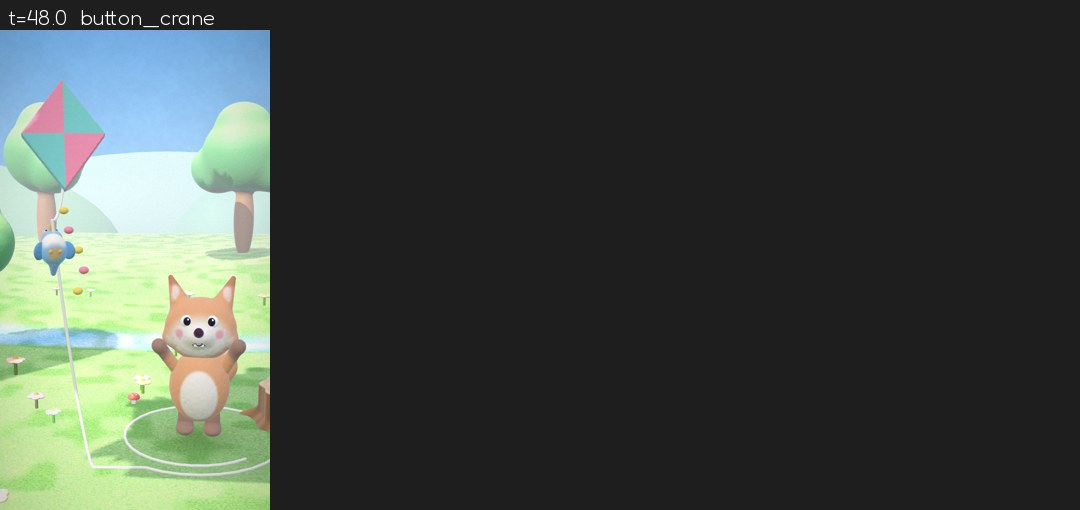
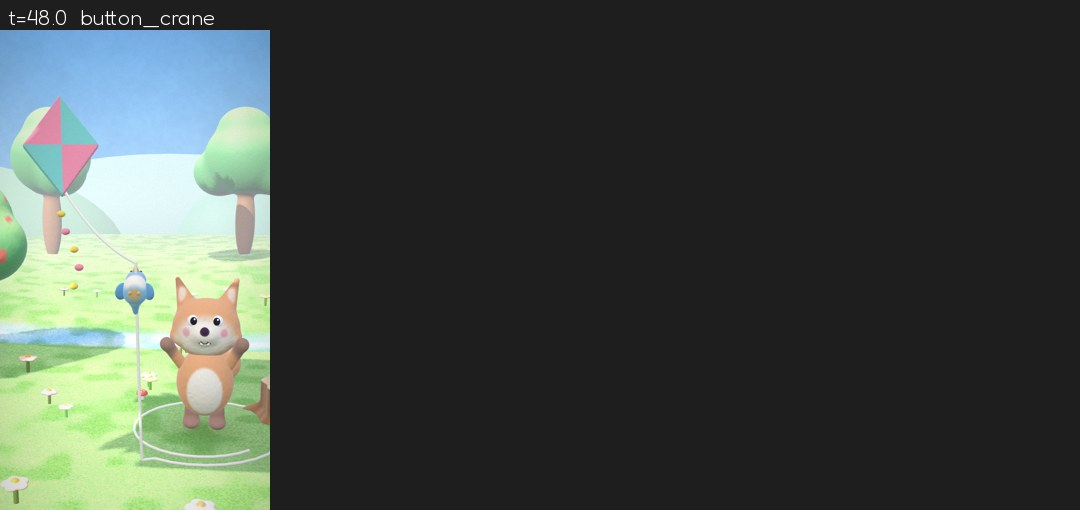
Fable 1: animatic passes review (round 6), final stills and review log
Geometry QA 0 issues, independent reviewer PASS on both aspects. Pip
moved clear of the kite tail at the end. Final 8 stills per aspect,
contact sheets, review sheets and the full round-by-round log.

Claude-Session: https://claude.ai/code/session_012DiEG3BG1auD4t8c7zPpV2

Changed region(s): [[0.0, 0.1471, 0.275, 1.0], [0.0611, 0.9706, 0.0917, 1.0]]

diff --git a/batches/01-fables-friendship/fable-01-tiny-pip-big-help/code/render.py b/batches/01-fables-friendship/fable-01-tiny-pip-big-help/code/render.py
@@ -243,7 +243,7 @@ def kite_state(t, st):
             return p, roty(0.6) @ rotx(-math.pi / 2 * e - 0.3 * (1 - e))
         return rest, Mrest
     u = ease(clampu(t, SH["button_crane"][0] + GRAB + 0.1, SH["button_crane"][1]))     # Pip pulls it up into the sky again, on his left
-    p = lerp(rest, np.array([TPOS[0] - 1.9, 4.0, TPOS[1] + 0.5]), u) + bob * u
+    p = lerp(rest, np.array([TPOS[0] - 2.2, 4.3, TPOS[1] + 0.1]), u) + bob * u
     p[1] = lerp(rest[1], 4.2, u ** 0.45)                                      # lifts straight up first, clear of his head
     return p, roty(0.6 * (1 - u) + 0.2 * u) @ rotx(-math.pi / 2 * (1 - u) - 0.35 * u)
 def orbit_pos(t):
@@ -415,9 +415,9 @@ def pip_state(t, st, mats):
         yaw = math.atan2(g[0] - p0[0], g[2] - p0[2]) if u < 0.85 else -math.pi / 2
         return p, yaw, u < 0.9, 0.35 * clampu(u, 0.85, 1.0), False, {"beak": u > 0.92}
     u = clampu(t, a + GRAB, b)                                              # then flies it up on the kite's side, away from Tumble
-    p1 = np.array([TPOS[0] - 1.75, 2.9, TPOS[1] + 1.3])
+    p1 = np.array([TPOS[0] - 0.95, 2.45, TPOS[1] + 1.4])                      # below and in front of the kite, clear of its tail
     p = lerp(g, p1, ease(u)) + np.array([0, 0.06 * math.sin(t * 9), 0]) * u
-    return p, lerp(-math.pi / 2, 0.3, ease(clampu(u, 0.0, 0.4))), True, 0.35 * (1 - clampu(u, 0.0, 0.2) / 0.2), False, {"beak": True}
+    return p, lerp(-math.pi / 2, 0.0, ease(clampu(u, 0.0, 0.4))), True, 0.35 * (1 - clampu(u, 0.0, 0.2) / 0.2), False, {"beak": True}
 
 # ---------------- camera (aspect-fitted) ----------------
 def fit_cam(tgt, yaw_deg, pitch_deg, fit_w, fit_h, fov=38.0, lift=None):

diff --git a/batches/01-fables-friendship/fable-01-tiny-pip-big-help/review.md b/batches/01-fables-friendship/fable-01-tiny-pip-big-help/review.md
@@ -36,6 +36,66 @@ at the animatic stage: there is no audio yet and word times are estimated on the
   - Foreground tail in the 16:9 Pip close-up: Tumble turns towards the kite and that camera is re-angled.
   - The mouth reading as a smear: it is a little larger and sits in front of the smile line.
 
-## Round 2
+## Round 2: FAIL (1 HIGH, 6 MED)
 
-See below once it has run.
+- **HIGH:** the kite still crossed his face as it fell at the end of the gust.
+- **MED:**
+  - the kite tail beads hung across his face;
+  - the button string crossed his face;
+  - the high-five had no contact.
+- **Fixes:**
+  - The kite falls on a curve behind him.
+  - The tail follows the kite's own down axis and is shorter near him.
+  - In the button, Pip and the kite take separate paths.
+  - The high-five was re-choreographed: Pip hops up and lands back on the paw as it bumps up to meet him, with a star
+    puff on the contact. The paw can only rise 0.11 before Pip would touch Tumble's head; that limit was solved
+    numerically.
+
+## Round 3: FAIL (3 MED)
+
+- **MED:**
+  - the gust string crossed his face from the paw;
+  - the button string crossed his head;
+  - Pip overlapped Tumble at the start of the spin-out.
+- **Fixes:**
+  - The kite flies on his paw side.
+  - Pip hops clear on a high arc before Tumble rises.
+  - In the button, Pip picks up the loose string end on the grass.
+
+## Round 4: FAIL (2 MED)
+
+- **MED:**
+  - the gust string still crossed his face later in each loop;
+  - the button string formed a V across his body.
+- **Fixes (geometry):**
+  - Tumble clutches the string low at his waist and the kite circles low, so the string always passes below his
+    face. The camera is a little higher.
+  - In the button, Pip flies high behind Tumble's head (three explicit legs, after a curved path cut through his head)
+    and picks the string up beside the kite on Tumble's left. The slack stays on the grass round his feet.
+
+## Round 5: FAIL (2 MED, framing)
+
+- **MED:**
+  - in 9:16, the climbing kite and Pip left the frame;
+  - in 16:9, Pip landed in the caption band.
+- **Fixes:**
+  - The button camera follows Tumble, Pip and the kite together.
+  - Tumble's head is re-meshed at twice the resolution. The jagged "mouth with teeth" was the carved smile line
+    breaking up at the old mesh step.
+  - The singing mouth is a single glossy shape that covers the smile line.
+
+## Round 6: PASS
+
+LOW items left:
+- Pip half behind the "Bye-bye!" caption for about 0.2 s in 16:9.
+- The kite corner passing just behind Tumble's ear at 19.8 s.
+- Tumble small in the 9:16 gust.
+- The kite's tail beads crossing the top edge at 16.0 s.
+- Tumble's paw at the edge of the 16:9 Pip close-up.
+
+After the pass, Pip was moved clear of the kite's tail at the end (he read as upside-down there). Geometry QA was rerun:
+0 issues.
+
+**Final checks:** geometry QA 0 issues at 15 fps; reviewer PASS (round 6) on both aspects.
+
+Audio checks are still to do, once the ElevenLabs song exists.

diff --git a/batches/01-fables-friendship/fable-01-tiny-pip-big-help/plan.md b/batches/01-fables-friendship/fable-01-tiny-pip-big-help/plan.md
@@ -1,8 +1,9 @@
 # Tumble & Pip Fables 1: Tiny Pip, Big Help!
 
 - **job:** batch 01, fable 01 (`fable-01-tiny-pip-big-help`)
-- **status:** animatic stage. Visuals built and checked in both aspects on the planned grid. Waiting for the ElevenLabs
-  song (no key or network in the build session), then the final render on the Mac.
+- **status:** animatic done. Visuals built in both aspects on the planned grid; geometry QA 0; reviewer PASS (round 6).
+  Waiting for the ElevenLabs song (the build session had no key and no network access to ElevenLabs), then the final
+  render on the Mac.
 - **series:** Tumble & Pip (Fables About Friendship). Batch plan: [../plan.md](../plan.md)
 - **source:** Aesop's fable *The Lion and the Mouse* (public domain), retold with our cast, gags and song
 - **lesson (SEL):** small friends can be big helpers; don't judge help by size
@@ -76,7 +77,9 @@ Shortest shot 2.4 s.
 
 - Stills and contact sheets in both aspects looked at; fixes made: a camera below the ground in the gust shot, Tumble
   falling into the stump, Pip seen from behind in two shots, the string crossing Pip, overhead framing, coil readability.
-- Geometry QA and the reviewer agent: see `review.md`.
+- Geometry QA: 0 issues at 15 fps (started at 45).
+- Reviewer agent: PASS in round 6, after 5 FAIL rounds (see `review.md`).
+- Stills: 8 per aspect in `stills/`, plus contact sheets.
 - Still to do once the song exists: take recall 95%+ with lines inside sections, diarization (Tumble, Pip, duet),
   tempo within 2 BPM of 100, bar-line joins at chroma 0.9+, full-mix recall 90%+, -14 LUFS, final Mac render, 2 frames
   from the MP4.

diff --git a/batches/01-fables-friendship/plan.md b/batches/01-fables-friendship/plan.md
@@ -1,6 +1,6 @@
 # Batch 01: Tumble & Pip, Fables About Friendship
 
-- **status:** approved by the owner 2026-10-12 (see "Owner decisions" at the end). Fable 1 is at the animatic stage: visuals built and checked in both aspects, waiting for the ElevenLabs song ([fable-01 plan](fable-01-tiny-pip-big-help/plan.md)).
+- **status:** approved by the owner 2026-10-12 (see "Owner decisions" at the end). Fable 1 animatic done (geometry QA 0, reviewer PASS), waiting for the ElevenLabs song ([fable-01 plan](fable-01-tiny-pip-big-help/plan.md)).
 - **series:** Tumble & Pip
 - **output:** 10 standalone Shorts (9:16, about 45 s each) and 1 long-form episode (16:9, about 9 min, past the 8-minute mid-roll ad mark) made from the same scenes
 - **audience:** ages 3 to 5, Made for Kids, UK English captions

diff --git a/README.md b/README.md
@@ -24,7 +24,7 @@ Themed sets of Shorts that also join into one long-form episode.
 
 | Batch | Series | Shorts | Episode | Status |
 |---|---|---|---|---|
-| [01: Fables About Friendship](batches/01-fables-friendship/plan.md) | Tumble & Pip | 10 Aesop retellings | Story Stump episode, about 9 min, 16:9 | Fable 1 at animatic stage (visuals done, waiting for the song) |
+| [01: Fables About Friendship](batches/01-fables-friendship/plan.md) | Tumble & Pip | 10 Aesop retellings | Story Stump episode, about 9 min, 16:9 | Fable 1 animatic done (QA 0, reviewer PASS), waiting for the song |
 
 ## Layout
 
